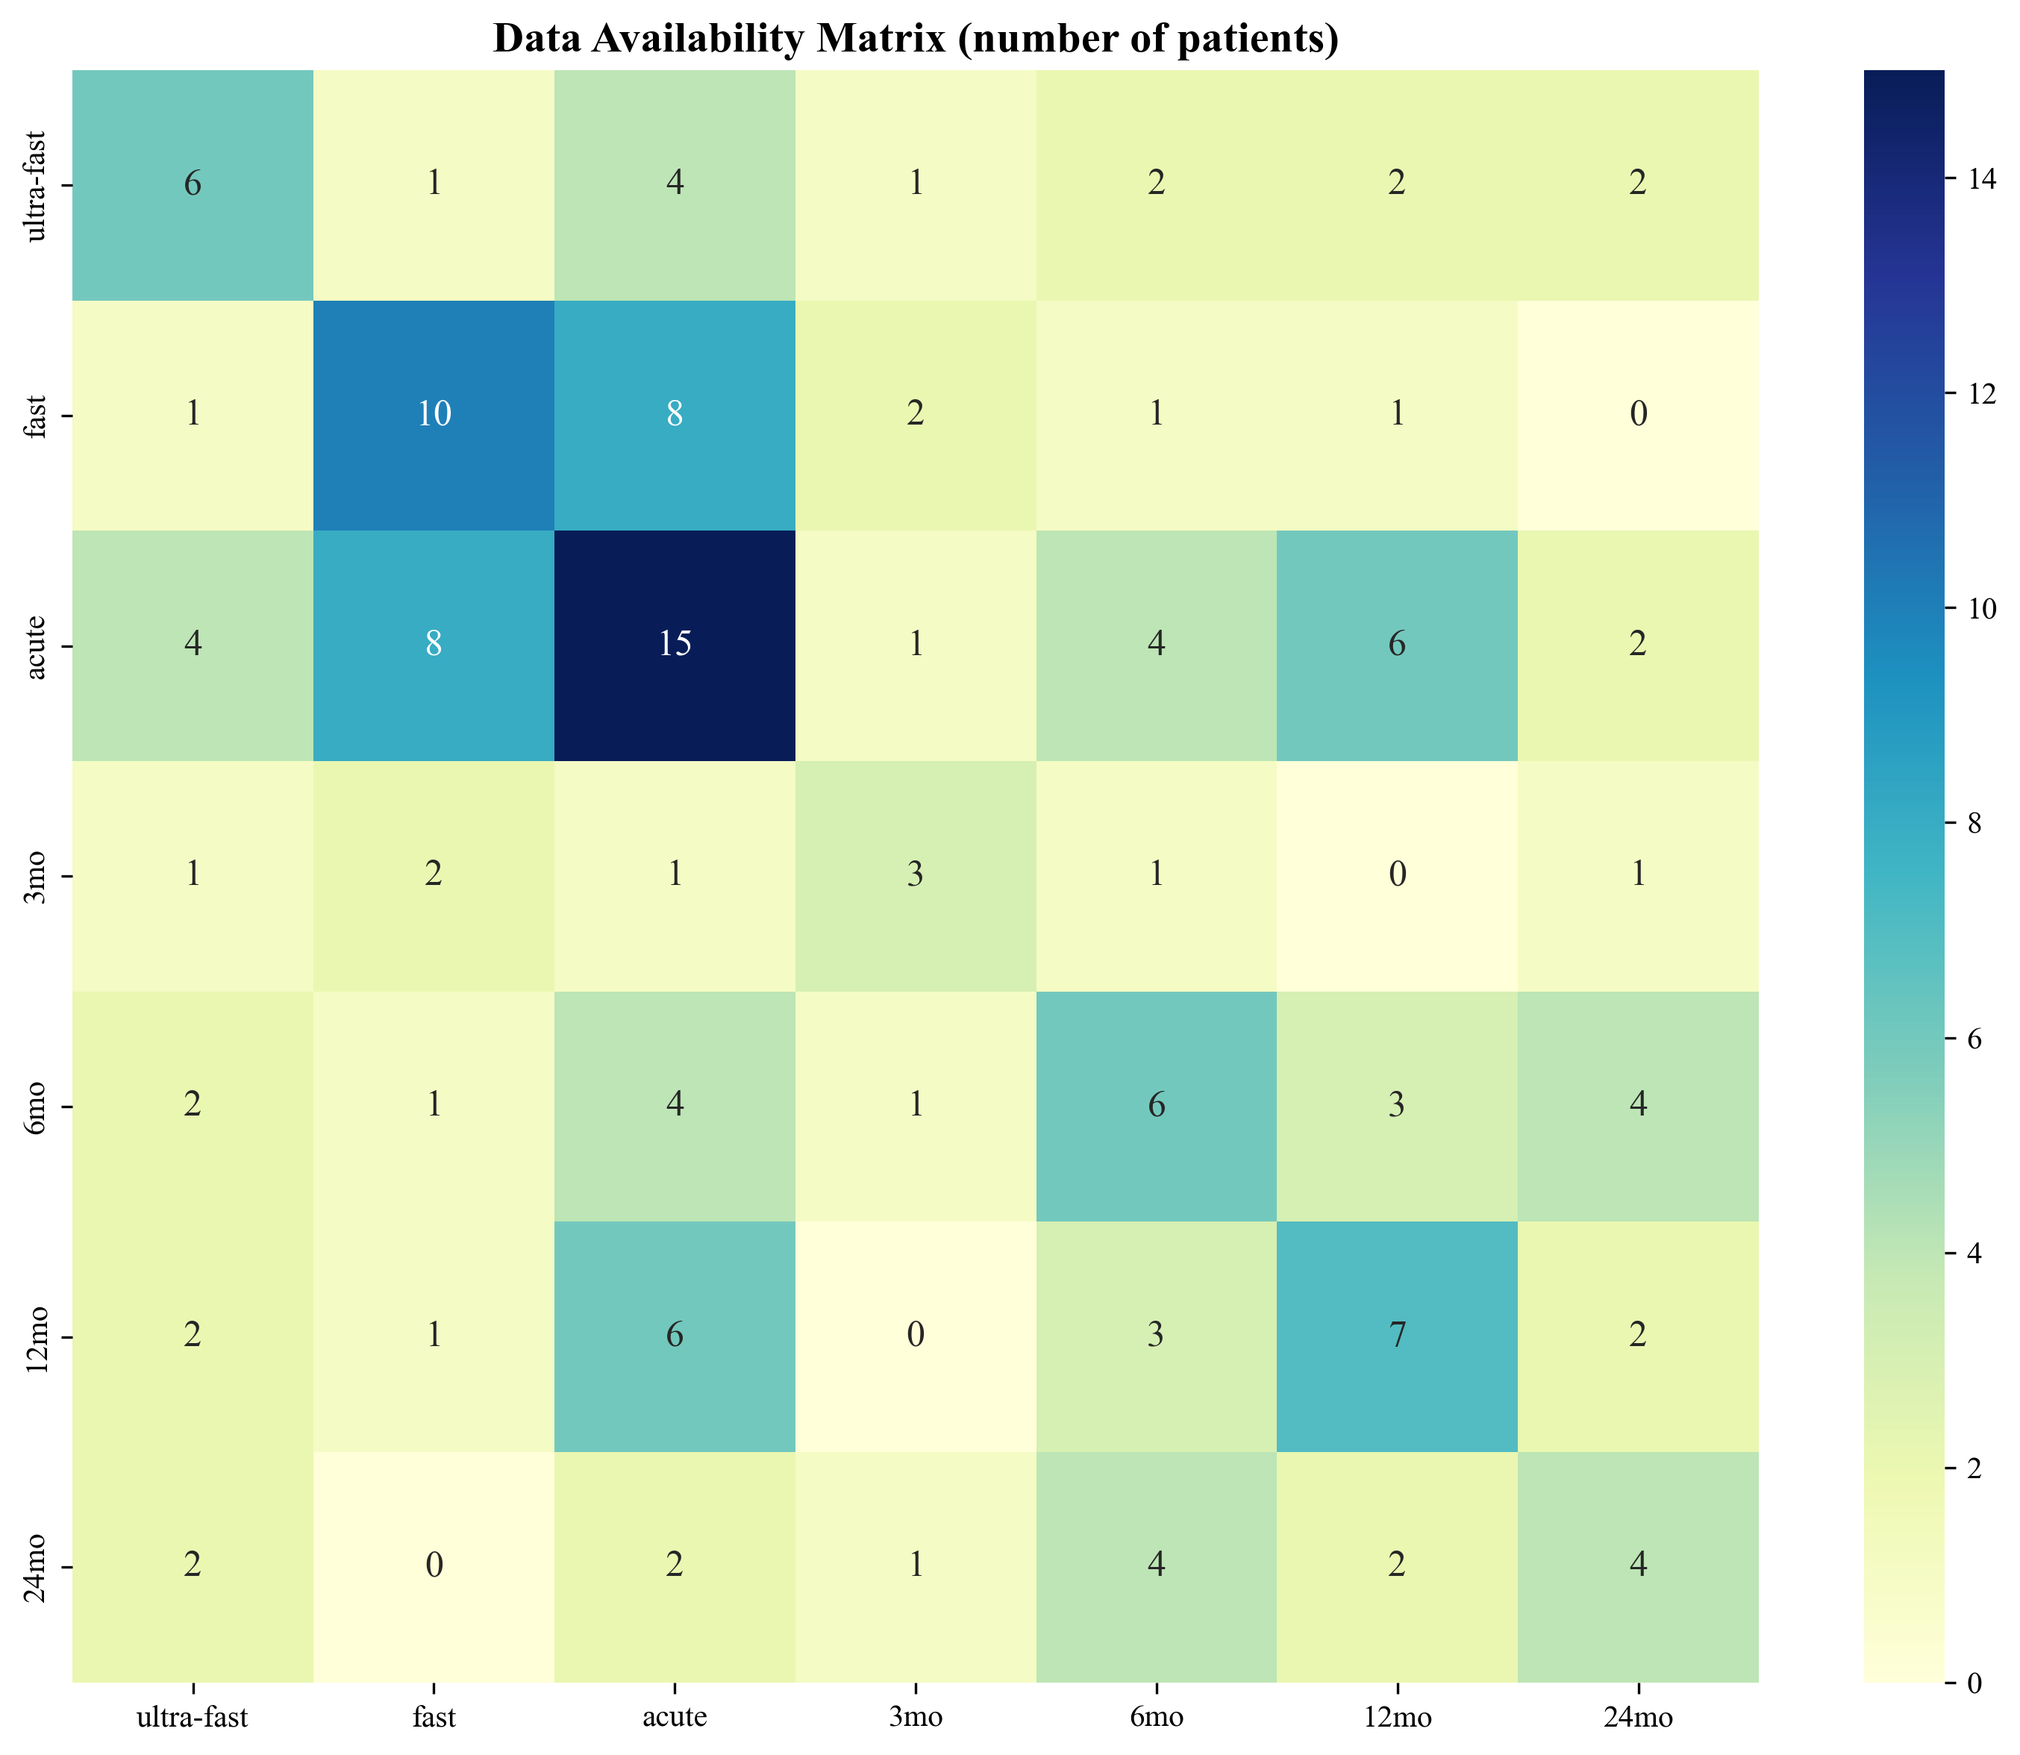
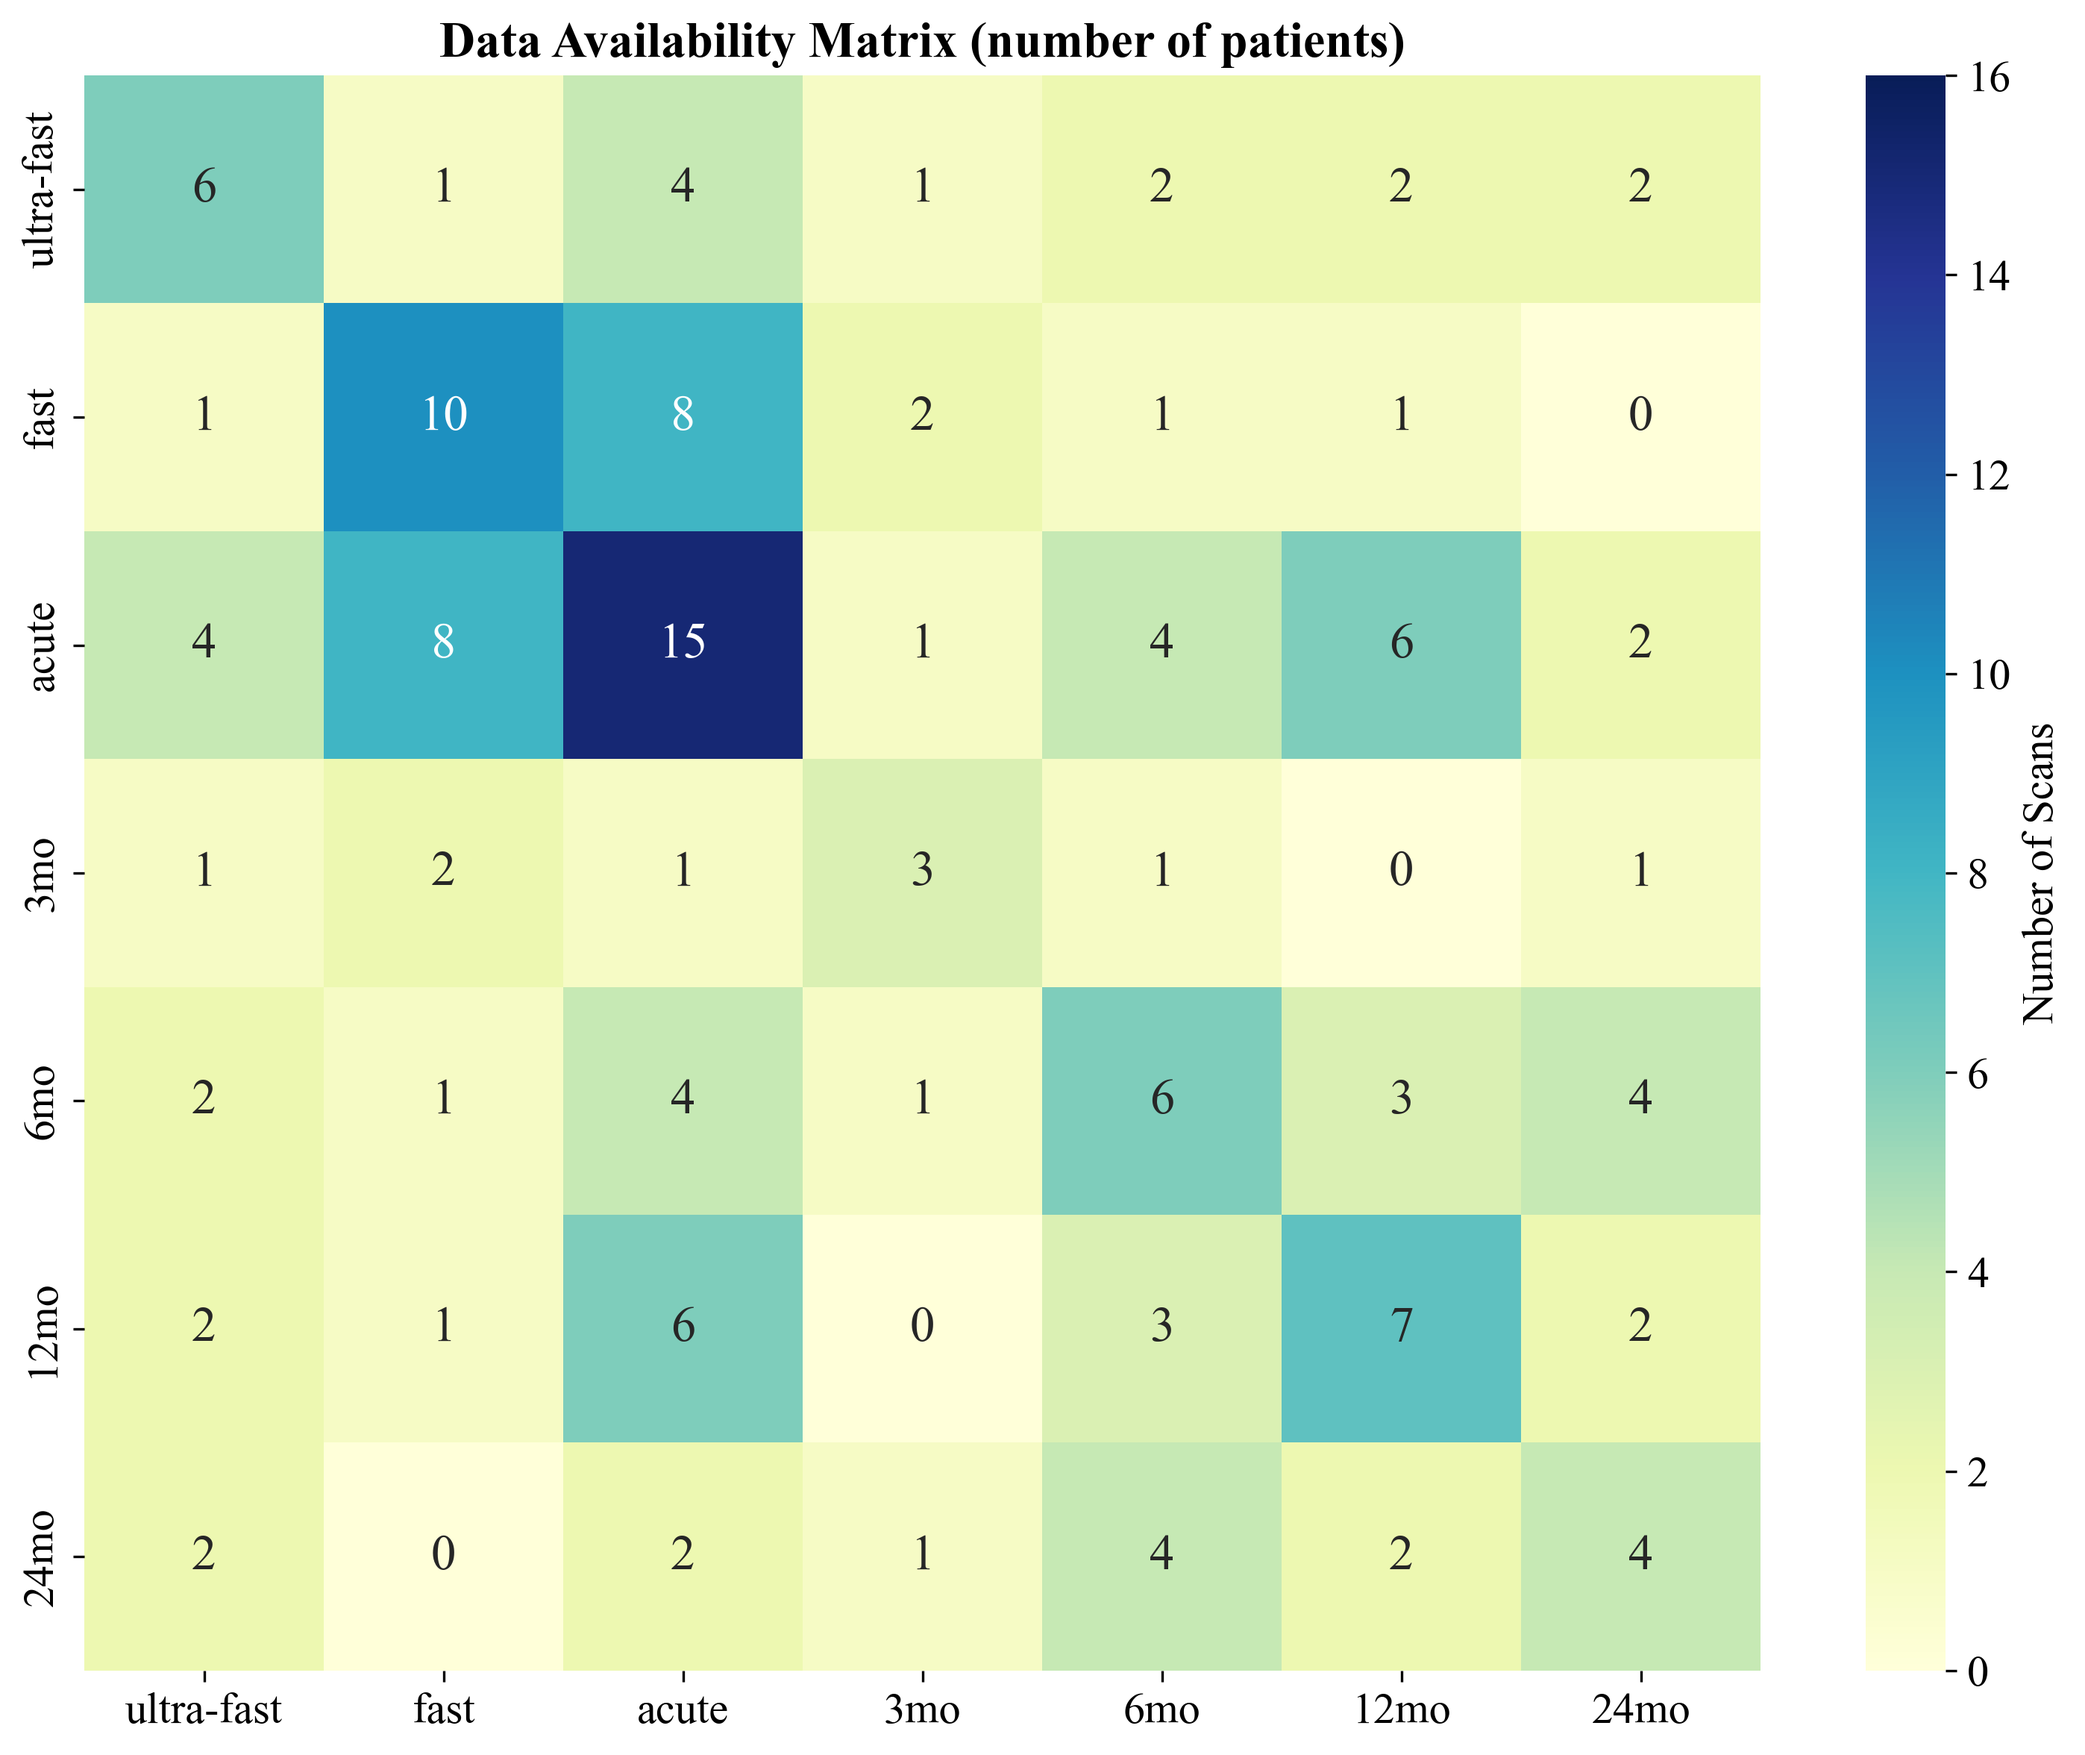
update data availability matrix font size and scale

diff --git a/DTI_Processing_Scripts/dti_results_plotting_main.py b/DTI_Processing_Scripts/dti_results_plotting_main.py
@@ -828,7 +828,19 @@ def data_availability_matrix(data, timepoints, diff_column='fa_anterior_diff', f
     
     # Visualize the data availability
     plt.figure(figsize=(10, 8))
-    sns.heatmap(availability_matrix, annot=True, cmap="YlGnBu", fmt='g')
+    # sns.heatmap(availability_matrix, annot=True, cmap="YlGnBu", fmt='g')
+
+    heatmap=sns.heatmap(availability_matrix, annot=True, 
+                vmin=0, vmax=16,
+                cmap="YlGnBu", fmt='g', 
+                annot_kws={"size": 16},  # Annotation font size)
+                cbar_kws={"label": "Number of Scans"}) # Add colorbar label
+    plt.xticks(fontsize=14)
+    plt.yticks(fontsize=14)
+    cbar = heatmap.collections[0].colorbar
+    cbar.ax.tick_params(labelsize=14)
+
+
     plt.title('Data Availability Matrix (number of patients)')
     plt.grid(False)
     plt.tight_layout()
@@ -3554,8 +3566,8 @@ if __name__ == '__main__':
     wm_data_10x4vox_filename='DTI_Processing_Scripts/merged_data_10x4vox_NEW_filtered_wm_harmonised.csv'
     wm_data_10x4vox=process_timepoint_data(input_file_location=wm_data_10x4vox_filename)
     # plot_metric_difference(df=wm_data_5x4vox, parameter='fa', region='anterior', save_path='DTI_Processing_Scripts/test_results/roi_fa_wm_5x4vox_anterior_comparison_box.png', plot_type='strip')
-    plot_metric_difference(df=wm_data_10x4vox, parameter='fa', region='both', save_path='DTI_Processing_Scripts/test_results/roi_fa_wm_10x4vox_both_regions_comparison_box.png', plot_type='strip', group_by='timepoint')
-    plot_metric_difference(df=wm_data_10x4vox, parameter='md', region='both', save_path='DTI_Processing_Scripts/test_results/roi_md_wm_10x4vox_both_regions_comparison_box.png', plot_type='strip', group_by='timepoint')
+    # plot_metric_difference(df=wm_data_10x4vox, parameter='fa', region='both', save_path='DTI_Processing_Scripts/test_results/roi_fa_wm_10x4vox_both_regions_comparison_box.png', plot_type='strip', group_by='timepoint')
+    # plot_metric_difference(df=wm_data_10x4vox, parameter='md', region='both', save_path='DTI_Processing_Scripts/test_results/roi_md_wm_10x4vox_both_regions_comparison_box.png', plot_type='strip', group_by='timepoint')
     # plot_metric_difference(df=wm_data_10x4vox, parameter='fa', region='both', save_path='DTI_Processing_Scripts/test_results/roi_fa_wm_10x4vox_both_regions_comparison_boxplot.png', plot_type='box', group_by='timepoint')
     # plot_metric_difference(df=wm_data_10x4vox, parameter='md', region='both', save_path='DTI_Processing_Scripts/test_results/roi_md_wm_10x4vox_both_regions_comparison_boxplot.png', plot_type='box', group_by='timepoint')
     # # sys.exit()
@@ -3567,25 +3579,25 @@ if __name__ == '__main__':
     #################################
 
     # Run the test on rings 2-10 looking for an increasing trend
-    results = jt_test(df=wm_data_10x4vox, parameter='fa', regions=(2, 10), 
-                    save_path='DTI_Processing_Scripts/jt_test_results-fa-rings-2to10.png', alternative='increasing')
+    # results = jt_test(df=wm_data_10x4vox, parameter='fa', regions=(2, 10), 
+    #                 save_path='DTI_Processing_Scripts/jt_test_results-fa-rings-2to10.png', alternative='increasing')
 
-    print(results)
-    results = jt_test(df=wm_data_10x4vox, parameter='fa', regions=(2, 10), 
-                    save_path='DTI_Processing_Scripts/jt_test_results-fa-rings-combined-2to10.png', alternative='increasing', combine_regions=True)
+    # print(results)
+    # results = jt_test(df=wm_data_10x4vox, parameter='fa', regions=(2, 10), 
+    #                 save_path='DTI_Processing_Scripts/jt_test_results-fa-rings-combined-2to10.png', alternative='increasing', combine_regions=True)
 
-    print(results)
+    # print(results)
 
-    results = jt_test(df=wm_data_10x4vox, parameter='md', regions=(2, 10), 
-                    save_path='DTI_Processing_Scripts/jt_test_results-md-rings-2to10.png', alternative='increasing')
+    # results = jt_test(df=wm_data_10x4vox, parameter='md', regions=(2, 10), 
+    #                 save_path='DTI_Processing_Scripts/jt_test_results-md-rings-2to10.png', alternative='increasing')
 
-    print(results)
-    results = jt_test(df=wm_data_10x4vox, parameter='md', regions=(2, 10), 
-                    save_path='DTI_Processing_Scripts/jt_test_results-md-rings-combined-2to10.png', alternative='increasing', combine_regions=True)
+    # print(results)
+    # results = jt_test(df=wm_data_10x4vox, parameter='md', regions=(2, 10), 
+    #                 save_path='DTI_Processing_Scripts/jt_test_results-md-rings-combined-2to10.png', alternative='increasing', combine_regions=True)
 
-    print(results)
+    # print(results)
 
-    sys.exit()
+    # sys.exit()
 
     ################################################
     
@@ -3606,13 +3618,14 @@ if __name__ == '__main__':
 
 
 
-    # # Data availability matrix
-    # matrix = data_availability_matrix(
-    #     data=wm_data_roi_567, 
-    #     timepoints=['ultra-fast', 'fast', 'acute', '3mo', '6mo', '12mo', '24mo'],
-    #     diff_column='fa_anterior_diff',  # or any other diff column
-    #     filename='fa_diff_data_availability.png'
-    # )
+    # Data availability matrix
+    matrix = data_availability_matrix(
+        data=wm_data_roi_567, 
+        timepoints=['ultra-fast', 'fast', 'acute', '3mo', '6mo', '12mo', '24mo'],
+        diff_column='fa_anterior_diff',  # or any other diff column
+        filename='fa_diff_data_availability.png'
+    )
+    sys.exit()
 
     # create_timepoint_boxplot_recategorised_dti(df=wm_data_roi_567, parameter='fa', timepoints=['ultra-fast', 'fast', 'acute', '3mo', '6mo', '12mo', '24mo'])
     # create_timepoint_boxplot_recategorised_dti(df=wm_data_roi_567, parameter='md', timepoints=['ultra-fast', 'fast', 'acute', '3mo', '6mo', '12mo', '24mo'])
